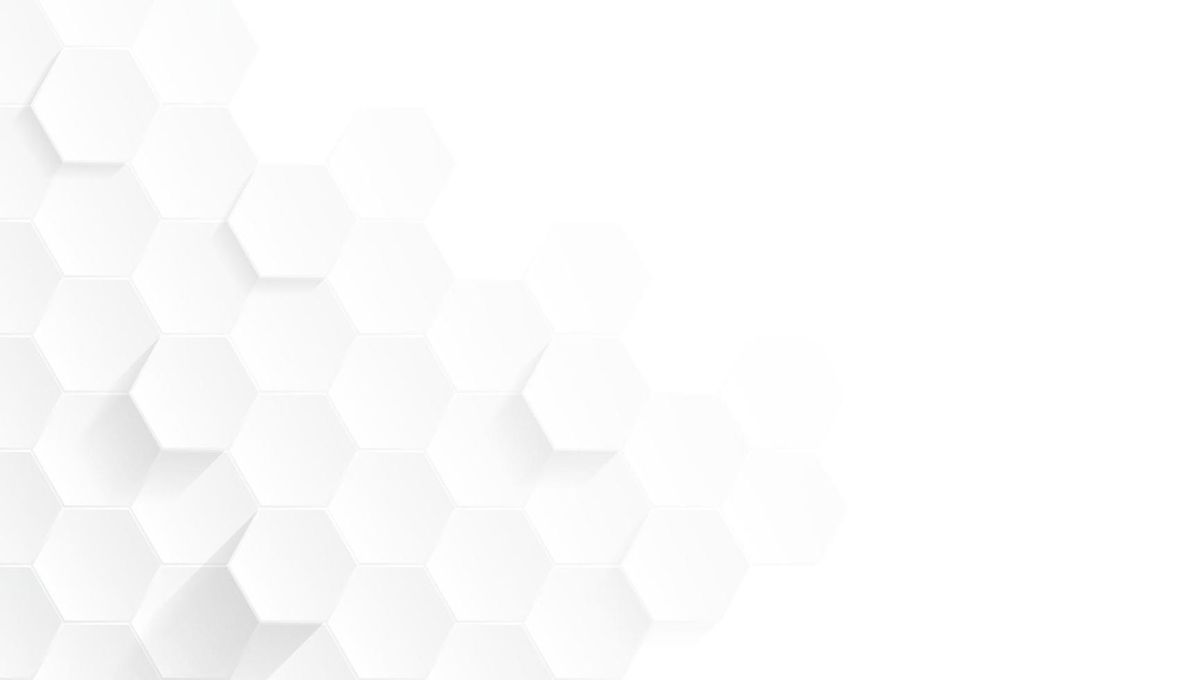
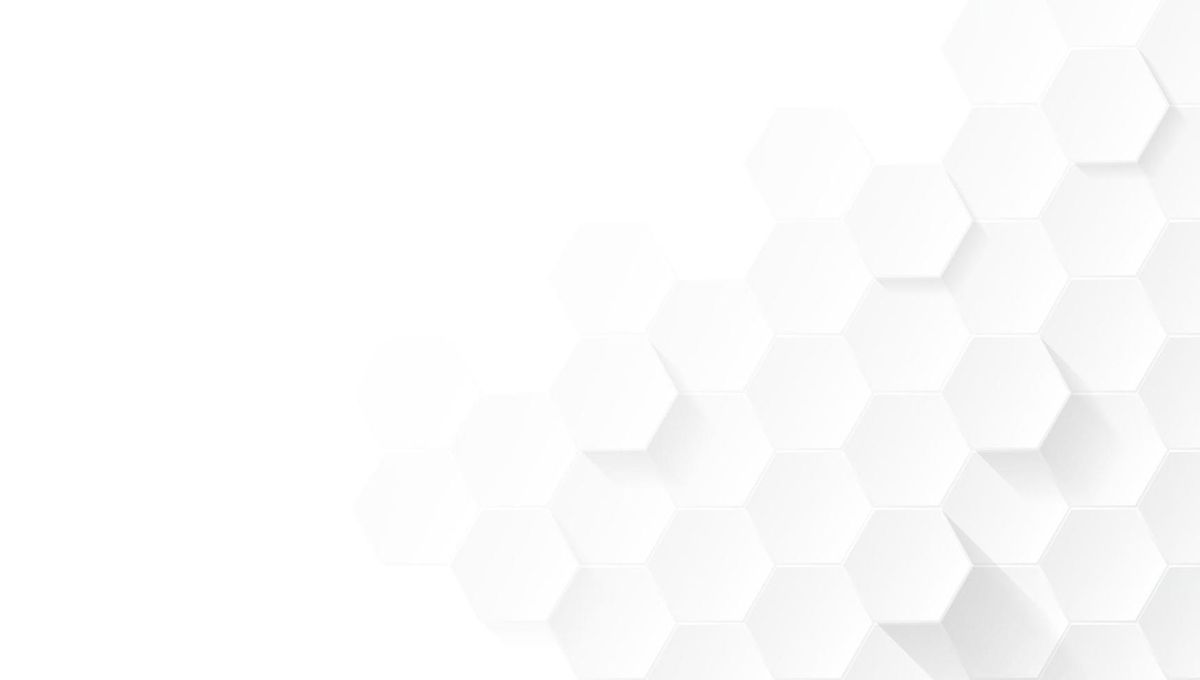
Homepage: background heksagon sisi kanan + foto mentoring baru di Universitas Dinamika (16:9)

diff --git a/index.html b/index.html
@@ -31,7 +31,7 @@
             background-color: #ffffff;
             background-image: url('assets/bg-hex.png');
             background-size: cover;
-            background-position: left center;
+            background-position: right center;
             background-repeat: no-repeat;
         }
 
@@ -90,7 +90,7 @@
 
                 <!-- Foto Mentoring -->
                 <div class="w-full max-w-md lg:max-w-lg float-element py-4">
-                    <div class="relative mx-auto aspect-[4/3] rounded-2xl overflow-hidden shadow-lg border-2 border-white/80 bg-gradient-to-b from-blue-50/50 to-indigo-100/50 flex items-center justify-center group">
+                    <div class="relative mx-auto aspect-[16/9] rounded-2xl overflow-hidden shadow-lg border-2 border-white/80 bg-gradient-to-b from-blue-50/50 to-indigo-100/50 flex items-center justify-center group">
                         <img
                             src="assets/hero-mentoring.jpg"
                             alt="Sesi mentoring Aliria Tech Community di Universitas Dinamika"
